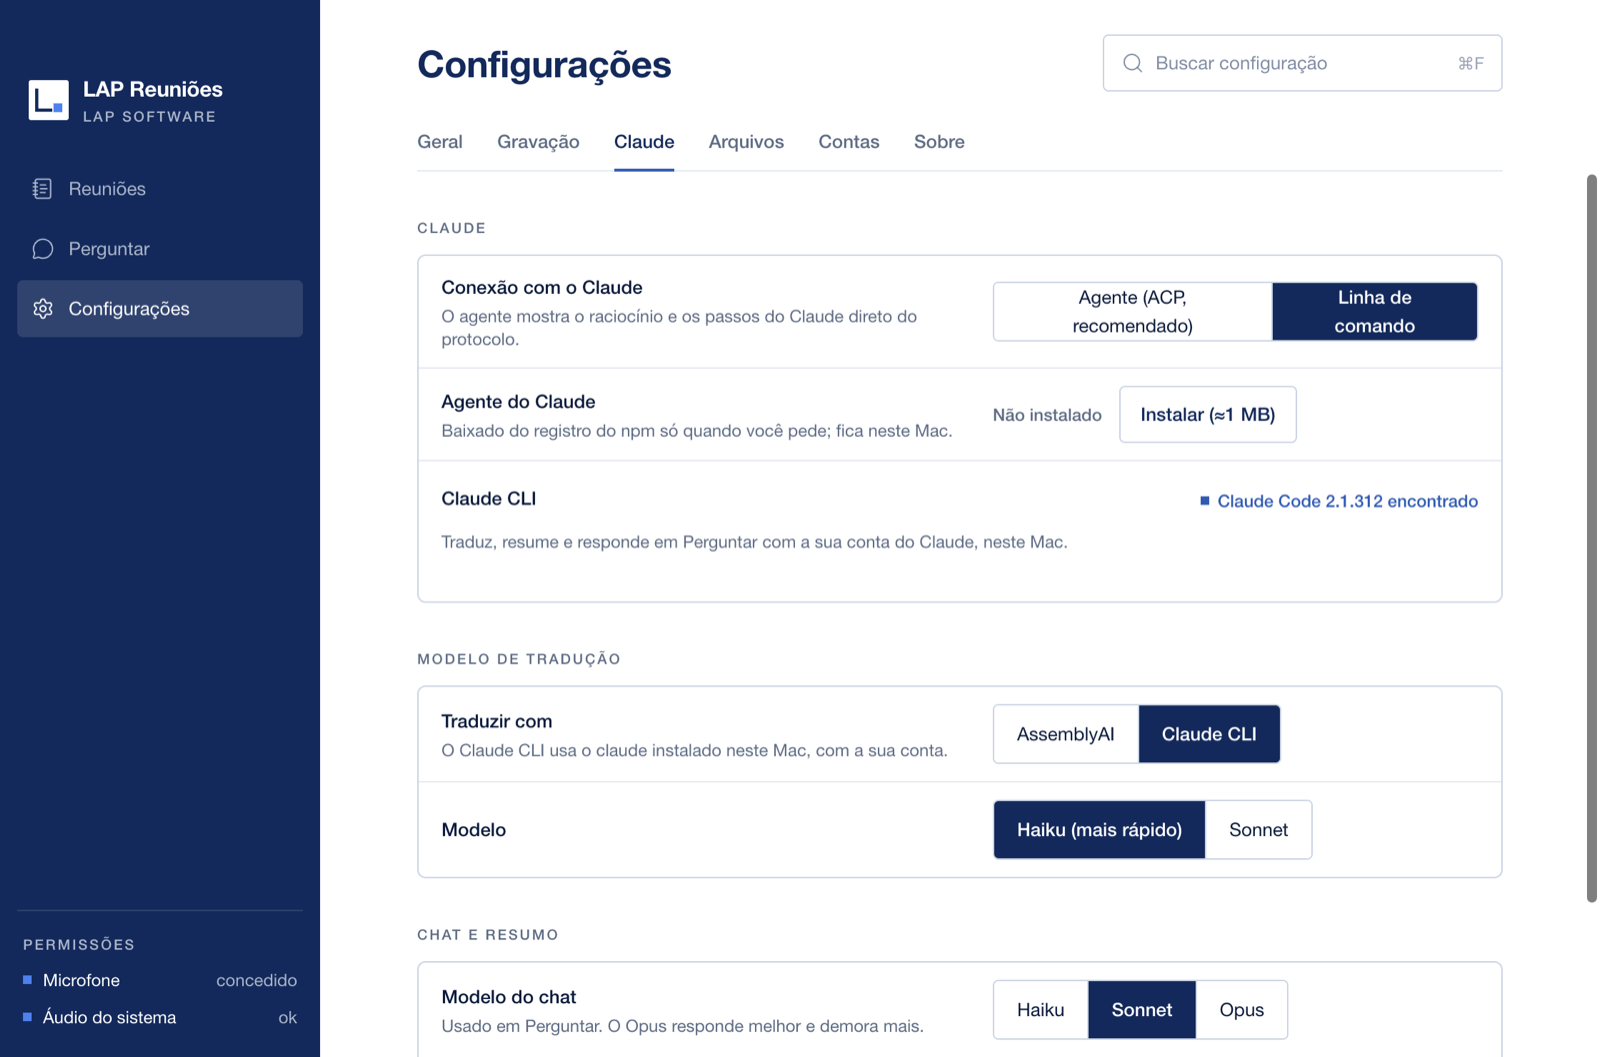
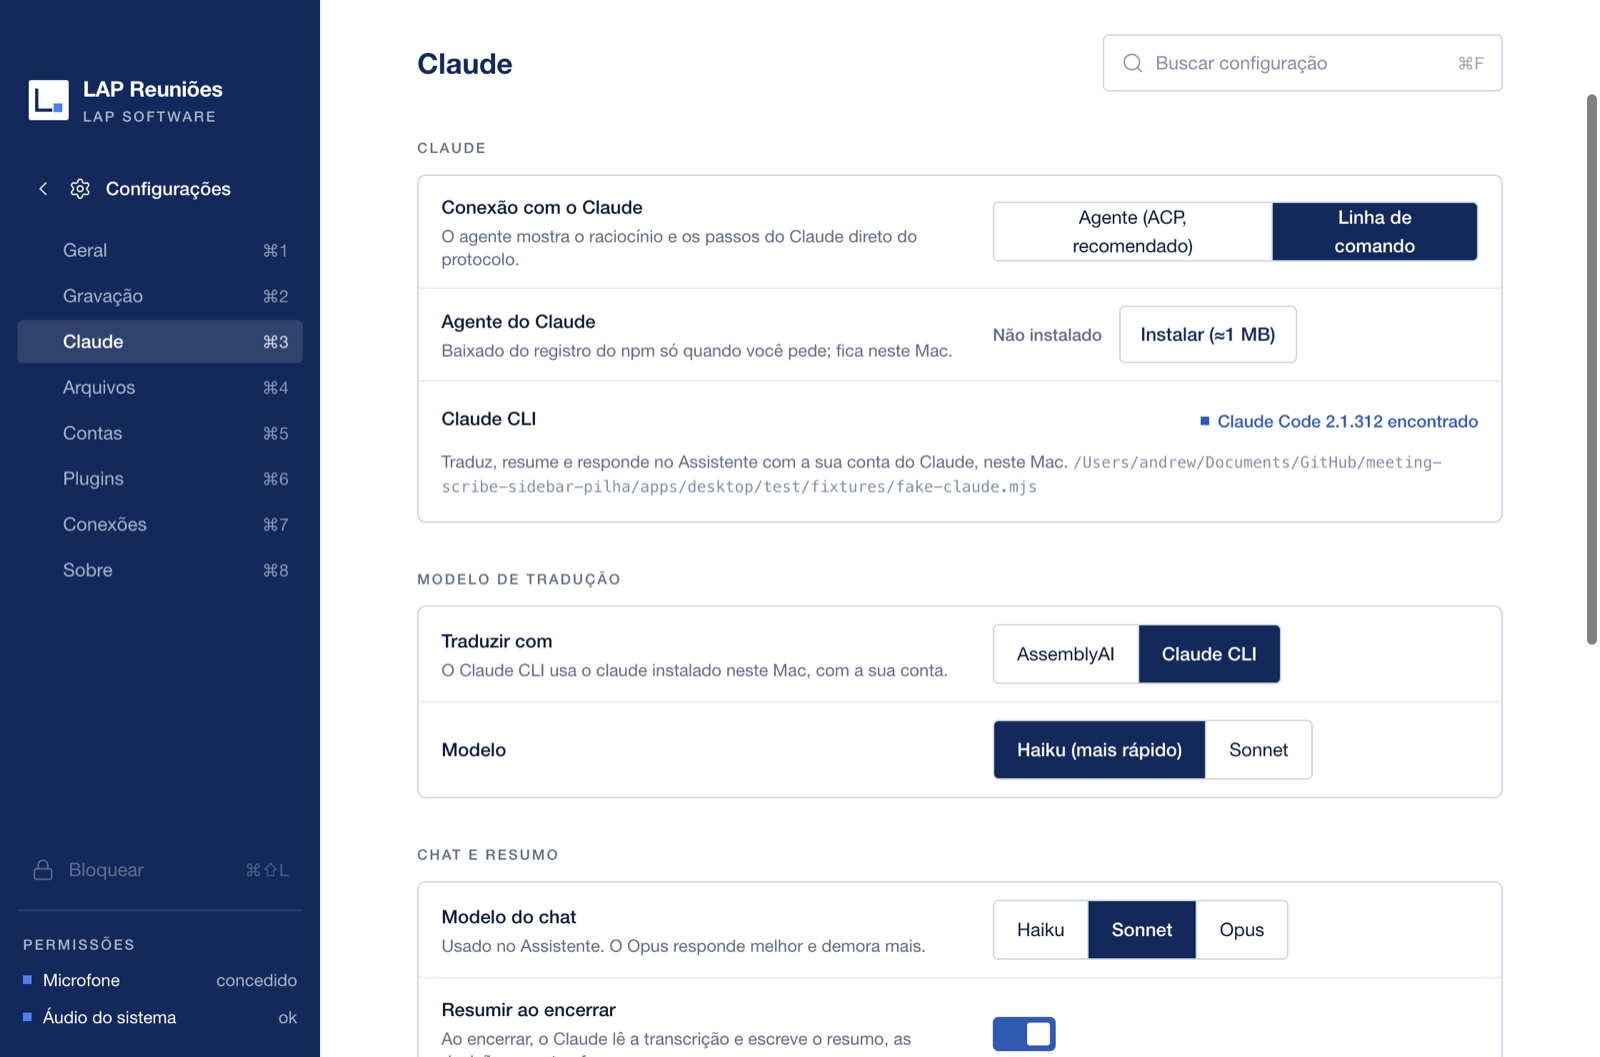
Documentar a barra lateral em pilha no README e no design, com os prints regerados

diff --git a/docs/specs/desktop-shell/design.md b/docs/specs/desktop-shell/design.md
@@ -1,6 +1,6 @@
 # Linguagem visual — Meeting Scribe desktop (identidade LAP)
 
-Versão 2, de 14/11/2026. Pedido do Andrew: "quero que seja como se fosse da LAP". Substitui a versão 1 ("caderno de estúdio", arquivada em `design-v1-caderno.md`). Vale para toda tela do app e prevalece sobre preferência do implementador. Fonte da marca: `~/.claude/skills/propostas-lap/references/identidade-visual.md`; logos em `docs/specs/desktop-shell/brand/`.
+Versão 2, de 14/11/2026. Pedido do Andrew: "quero que seja como se fosse da LAP". Substitui a versão 1 ("caderno de estúdio", arquivada em `design-v1-caderno.md`). Vale para toda tela do app e prevalece sobre preferência do implementador. Fonte da marca: `~/.claude/skills/propostas-lap/references/identidade-visual.md`; logos em `docs/specs/desktop-shell/brand/`. Atualizada em 19/11/2026 com a barra lateral em pilha e o deslize horizontal (feature `sidebar-pilha`).
 
 ## Conceito: precisão LAP
 
@@ -45,14 +45,14 @@ Tema: atributo `data-theme="light|dark"` em `<html>`. `system` segue o macOS. O 
 - Título de página 26/32, peso 700, `letter-spacing: -0.3px`, cor `--title`. Título de seção 17/24, peso 700. Título da reunião 20/26, peso 700.
 - Interface 12, 13 e 15; pesos 400, 500 e 700. Transcrição 16/26, peso 400.
 - Números (cronômetro, horários, preços) na mesma família com `font-variant-numeric: tabular-nums`. Só ids de modelo usam `Menlo, ui-monospace, monospace`.
-- Rótulos de fonte ("VOCÊ", "PARTICIPANTES") e a assinatura "LAP SOFTWARE": 10–11 px, maiúsculas, peso 500, `letter-spacing: .14em`, como a linha "SOFTWARE & CONSULTORIA" do logo. São os únicos usos de maiúsculas.
+- Rótulos de fonte ("VOCÊ", "PARTICIPANTES") e a assinatura "LAP SOFTWARE": 10–11 px, maiúsculas, peso 500, `letter-spacing: .14em`, como a linha "SOFTWARE & CONSULTORIA" do logo. Na barra lateral, o mesmo estilo vale para os rótulos de grupo ("PERMISSÕES" e os dias das conversas no nível Assistente). São os únicos usos de maiúsculas.
 
 ## Espaço, forma, movimento
 
 - Escala de espaço: 4, 8, 12, 16, 24, 32, 48, 64.
 - Raio: 4 em controles e etiquetas, 6 em painéis e na barra de controles. Nada acima de 6. Nenhuma pílula.
 - Nenhuma sombra (`box-shadow` proibido). Separação por fio de 1 px, por bloco azul ou por espaço.
-- Movimento: 120–180 ms `ease-out`. Com `prefers-reduced-motion: reduce`, nenhuma animação.
+- Movimento: 120–180 ms `ease-out`. Com `prefers-reduced-motion: reduce`, nenhuma animação. O único deslize horizontal do app é o da barra lateral em pilha (padrão em "Deslize horizontal", abaixo); tela nova que precise deslizar usa o mesmo padrão.
 - Foco: contorno de 2 px em `--focus` com deslocamento de 2 px, só em `:focus-visible`; sobre `--side-bg` o contorno é branco.
 - Ícones: `lucide-react`, traço 1,5, 16 px. Nunca emoji.
 
@@ -66,8 +66,24 @@ Tema: atributo `data-theme="light|dark"` em `<html>`. `system` segue o macOS. O 
 ## Janela e estrutura
 
 - Janela 1120×740, mínimo 900×600, `titleBarStyle: 'hiddenInset'`, `trafficLightPosition: {x: 18, y: 18}`. Sem `vibrancy`: a barra lateral é opaca.
-- Barra lateral de 224 px em `--side-bg` nos dois temas. De cima para baixo: espaço dos botões da janela; bloco da marca; itens de navegação (ícone 16 + rótulo 13 em `--side-muted`; item ativo com fundo `--side-active` e texto `--side-text`); no rodapé, bloco "Permissões" com duas linhas (quadrado de estado de 6 px + nome + estado em `--side-muted`).
+- Barra lateral de 224 px (`--sidebar-width`) em `--side-bg` nos dois temas. De cima para baixo: espaço dos botões da janela; bloco da marca; a coluna de navegação em pilha (abaixo); no rodapé, Bloquear, o aviso de versão e o bloco "Permissões" com duas linhas (quadrado de estado de 6 px + nome + estado em `--side-muted`). A marca e o rodapé ficam parados; só a coluna do meio troca de nível.
 - Faixa superior de 52 px arrastável; controles dentro dela com `no-drag`.
+
+**Barra lateral em pilha.** Navegação em dois níveis, no máximo, como os Ajustes do iOS. Nenhuma linha de um nível de seção abre um terceiro nível.
+
+- **Raiz** (`<nav aria-label="Navegação principal">`): Reuniões, Assistente, Email, Automações, WhatsApp (só com o serviço instalado) e Configurações. Itens de 40 px, ícone 16 + rótulo 13 em `--side-muted`; o ativo com fundo `--side-active`, texto `--side-text` e `aria-current="page"`. À direita do Email, o total de não lidas das Caixas de Entrada carregadas, 12 px tabular `--side-text`, que some em zero.
+- **Nível de seção**: só Email, Configurações e Assistente têm nível próprio (`<nav>` com o nome da seção); Automações e WhatsApp são itens planos. O nível ocupa a coluna inteira entre a marca e o rodapé, e só a lista dele rola.
+- **Cabeçalho-voltar**: primeira linha do nível, 40 px, um `<button>` inteiro com `ChevronLeft` 16, o ícone da seção 16 (`Mail`, `Settings`, `Sparkles`) e o nome em 13 peso 500 `--side-text`; hover com `--side-active`. Nome acessível com o nome visível na frente: "<Seção>: voltar ao menu" (por exemplo, "Email: voltar ao menu").
+- **Linhas de seção**: 30 px, rótulo 13, recuo de 32 px (o mesmo das pastas do email), sem ícone; a ativa com `--side-active` e `--side-text`. Em Configurações, uma linha por aba de `SETTINGS_TABS`, com a dica `⌘1` a `⌘8` à direita. No Assistente, "Nova conversa" (30 px, recuo de 10 px, ícone `Plus`), a busca compacta de 28 px em `--side-active` e as conversas por dia (linhas de 30 px com recuo de 32 px, sem hora), com o dia em maiúsculas espaçadas de 10 px.
+- **Nível e rota**: o nível segue a rota num sentido só. Toda navegação para `/email/*`, `/configuracoes/*` ou `/assistente` mostra o nível daquela seção; qualquer outra rota mostra a raiz. **Voltar não navega**: só mostra a raiz, a tela continua a mesma e o item da seção fica marcado. Clicar na seção já estando nela só mostra o nível. O nível não é guardado: abrir a janela numa rota de seção mostra o nível dela de cara, sem animação.
+- **Foco**: entrar pelo clique (ou Enter) no item da raiz põe o foco no cabeçalho-voltar; voltar pelo cabeçalho põe o foco no item da seção na raiz. Navegação vinda de fora do sidebar (menu, ⌘, aviso de email, link na tela) não mexe no foco.
+
+**Deslize horizontal.** Primeiro padrão de deslize do app, definido pela barra lateral em pilha (keyframes `side-push-in`, `side-push-out`, `side-pop-in` e `side-pop-out` em `design/base.css`; lógica em `app/SidebarStack.tsx` e `app/sidebarLevels.ts`).
+
+- Duração `--duration-slow` (180 ms) com `--ease-out`, sem biblioteca.
+- Entrar (push): o nível novo vem de `translateX(calc(100% + var(--space-3)))` para 0; o que sai vai de 0 para `translateX(-30%)` com a opacidade caindo para 0. Voltar (pop) é o inverso: a raiz volta de `translateX(-30%)` com opacidade 0, e o nível de seção sai para `translateX(calc(100% + var(--space-3)))`. A soma do `--space-3` faz o nível sair inteiro pela borda do sidebar, e não parar no recuo de 12 px. De uma seção direto para outra, vale o push.
+- A coluna fica com `overflow: hidden` durante o deslize (classe `is-sliding`), para cortar o que passa da borda. Os dois níveis só existem juntos no DOM durante a transição; o que sai fica `inert` e `aria-hidden`. Um clique no meio termina a transição anterior na hora e começa a nova.
+- Com `prefers-reduced-motion: reduce`, a troca é instantânea e o nível que sai nem é montado. Como o `tokens.css` zera toda animação nesse modo (e o `animationend` não chega), um temporizador de reserva de 260 ms (180 + 80) tira o nível que sai se o ajuste mudar no meio do deslize.
 
 ## Telas
 
@@ -81,7 +97,7 @@ Barra de controles: bloco em `--side-bg` com raio 6, centralizado a 24 px do rod
 
 **Detalhe da reunião.** Mesmo esqueleto da gravação, sem fita ao vivo: título editável, linha de apoio com data, hora e duração, coluna de transcrição e as ações "Copiar transcrição" e "Excluir" (com confirmação).
 
-**Configurações.** Coluna única rolável, largura máxima 640. Seções com título 17/24 peso 700 `--title` e um fio `--title` de 2 px e 24 px de largura abaixo do título. Cada linha: nome 13/500 e descrição 12 `--text-muted` à esquerda, controle à direita, fio entre linhas. Seletor de modelo: painel dentro da página com campo de busca, lista de linhas (nome 13/500, id em `Menlo` 11 `--text-faint`, à direita preço tabular no formato `US$ 0,10 / 0,50 por 1M` e contexto como `200k`); o modelo atual tem a marca de seleção em `--accent`.
+**Configurações.** Sem abas na tela: as abas são as linhas do nível Configurações da barra lateral. O topo mostra o nome da aba aberta à esquerda ("Configurações" durante uma busca) e a busca à direita. Coluna única rolável, largura máxima 640. Seções com título 17/24 peso 700 `--title` e um fio `--title` de 2 px e 24 px de largura abaixo do título. Cada linha: nome 13/500 e descrição 12 `--text-muted` à esquerda, controle à direita, fio entre linhas. Seletor de modelo: painel dentro da página com campo de busca, lista de linhas (nome 13/500, id em `Menlo` 11 `--text-faint`, à direita preço tabular no formato `US$ 0,10 / 0,50 por 1M` e contexto como `200k`); o modelo atual tem a marca de seleção em `--accent`.
 
 ## Texto
 

diff --git a/README.md b/README.md
@@ -86,7 +86,8 @@ A tela que antes se chamava "Perguntar".
 - **Os conectores só funcionam com o Claude logado pela assinatura.** Com chave de API ou outro provedor, a seção mostra só esse aviso.
 
 ### Do seu jeito
-- **Configurações em abas** (Geral, Gravação, Claude, Arquivos, Contas, Sobre) com busca (⌘F).
+- **Configurações em abas** (Geral, Gravação, Claude, Arquivos, Contas, Plugins, Conexões, Sobre) com busca (⌘F). As abas ficam na barra lateral, e ⌘1 a ⌘8 trocam de aba com Configurações aberta.
+- **Barra lateral em dois níveis**, como os Ajustes do iOS: na raiz, Reuniões, Assistente, Email (com o total de não lidas), Automações, WhatsApp e Configurações. Email, Configurações e Assistente têm nível próprio, que entra deslizando com as contas e pastas, as abas ou as conversas. O cabeçalho no topo do nível volta ao menu sem trocar a tela aberta.
 - **Sua marca**: troque o nome e o logo do app.
 - Tema claro, escuro ou do sistema.
 - **Atualização pelo GitHub**: o app avisa quando sai versão nova, baixa, confere o arquivo e abre o instalador.
